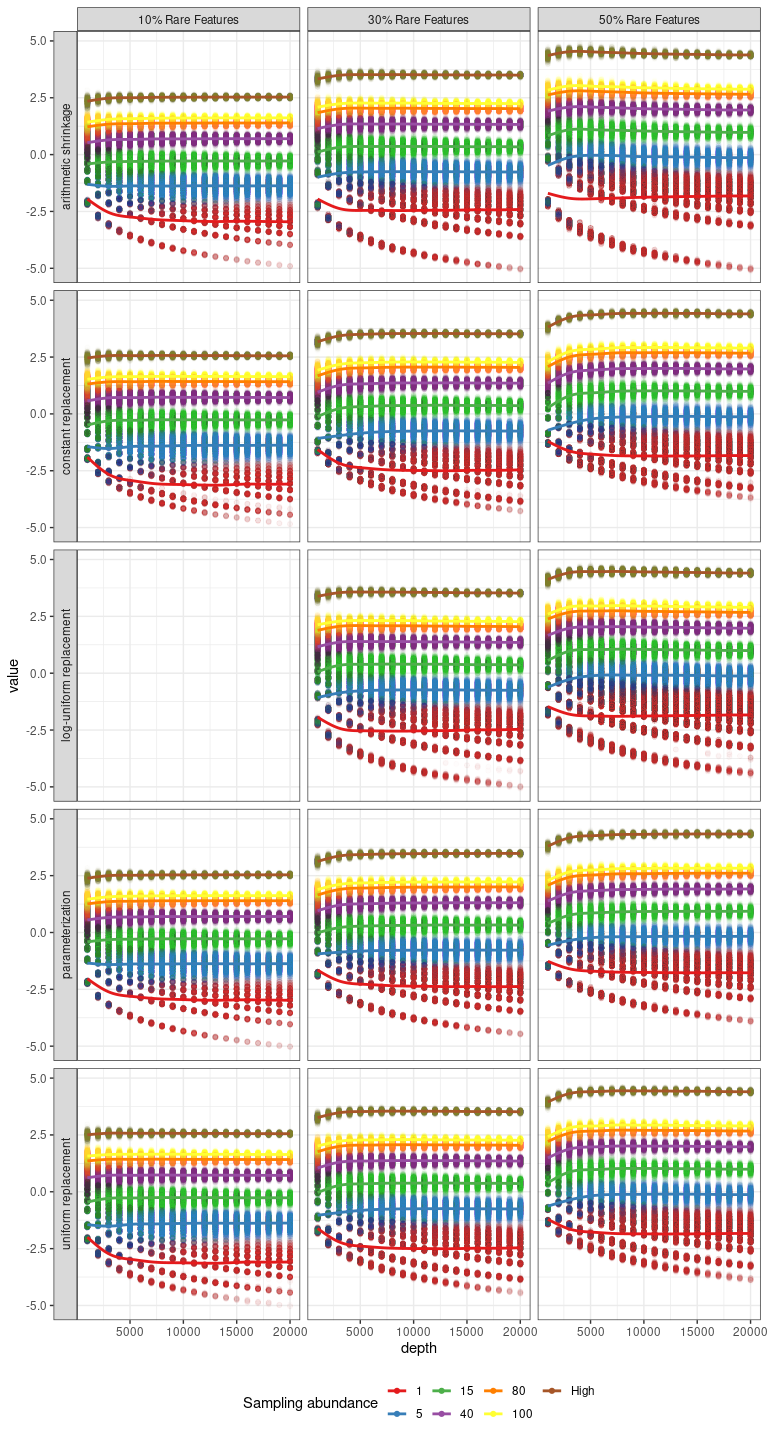
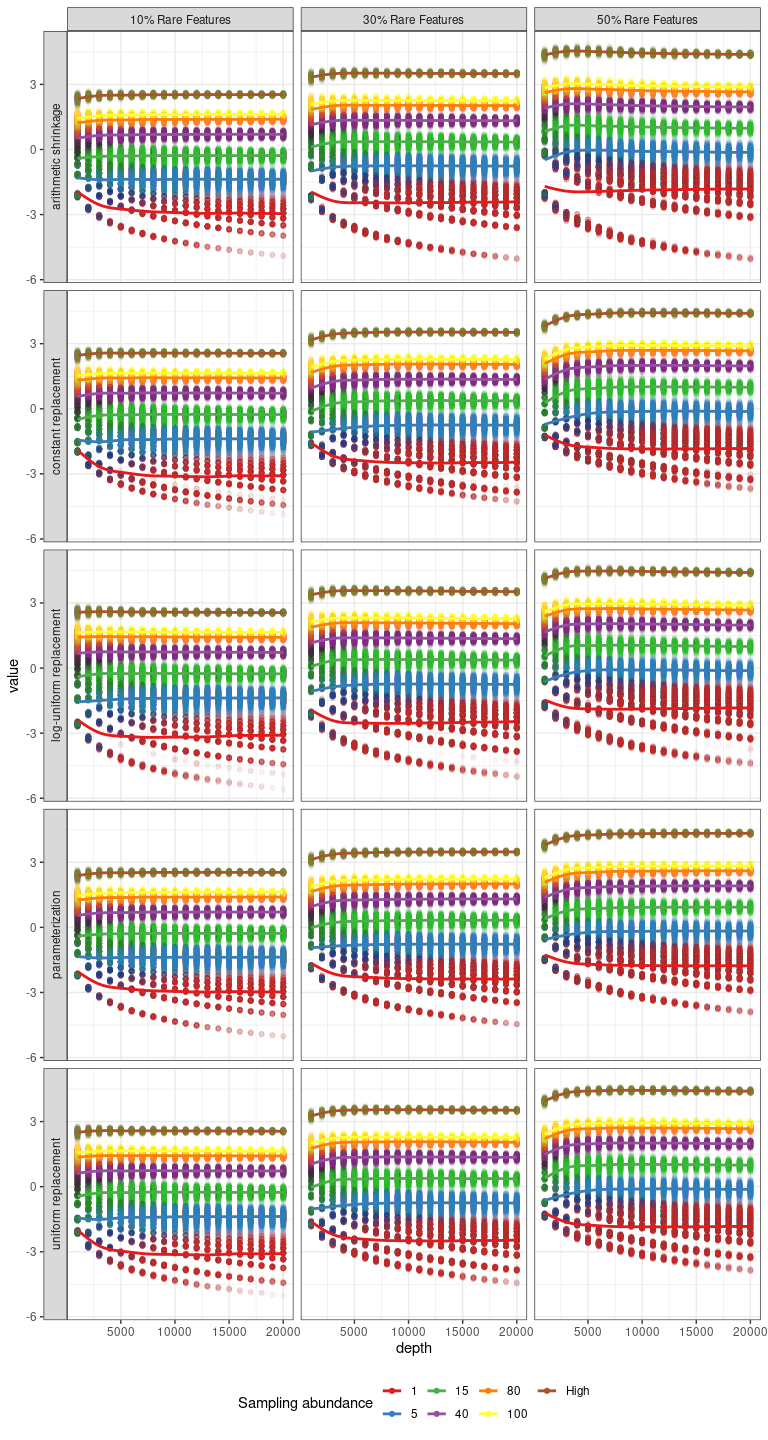
typo

diff --git a/docs/permanova.md b/docs/permanova.md
@@ -210,7 +210,7 @@ do.call(rbind, list(
   clr_shrunk_b1,  clr_shrunk_b2,  clr_shrunk_b3, 
   clr_new_b1,     clr_new_b2,     clr_new_b3, 
   clr_unif_b1,    clr_unif_b2,    clr_unif_b3, 
-  clr_logunif_b3, clr_logunif_b2, clr_logunif_b3
+  clr_logunif_b1, clr_logunif_b2, clr_logunif_b3
                     )) %>% 
   mutate(source = str_replace(source, pattern = "b1", replacement = "10% Rare Features"), 
          source = str_replace(source, pattern = "b2", replacement = "30% Rare Features"), 
@@ -250,7 +250,7 @@ do.call(rbind, list(
   clr_shrunk_b1,  clr_shrunk_b2,  clr_shrunk_b3, 
   clr_new_b1,     clr_new_b2,     clr_new_b3, 
   clr_unif_b1,    clr_unif_b2,    clr_unif_b3, 
-  clr_logunif_b3, clr_logunif_b2, clr_logunif_b3
+  clr_logunif_b1, clr_logunif_b2, clr_logunif_b3
                     )) %>% 
   mutate(source = str_replace(source, pattern = "b1", replacement = "10% Rare Features"), 
          source = str_replace(source, pattern = "b2", replacement = "30% Rare Features"), 
